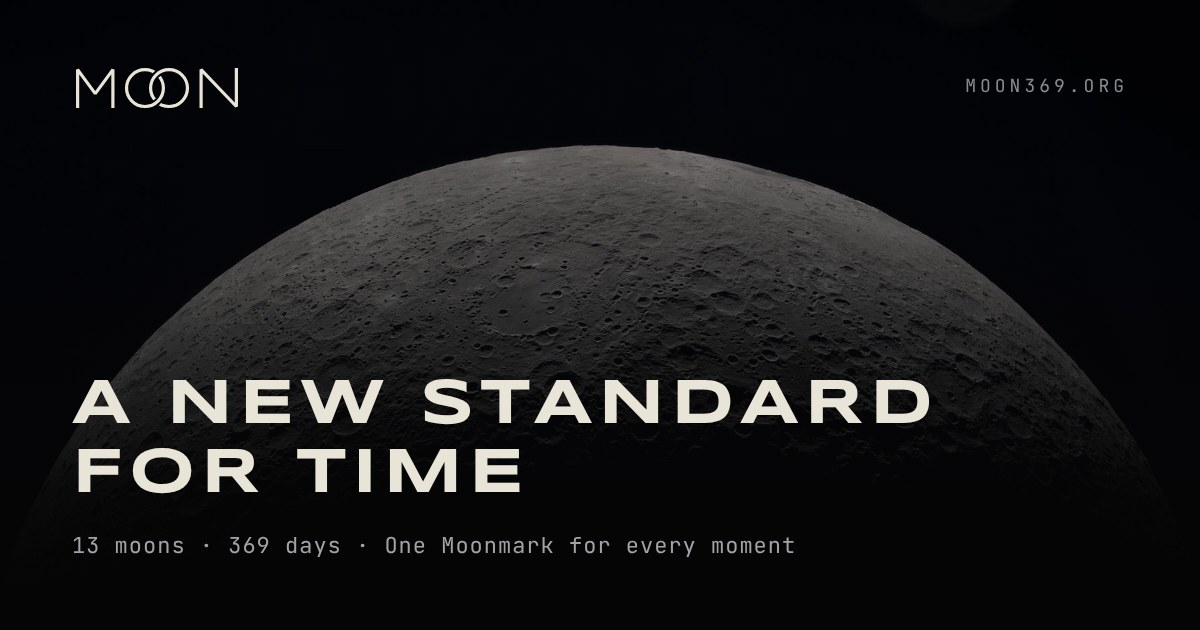
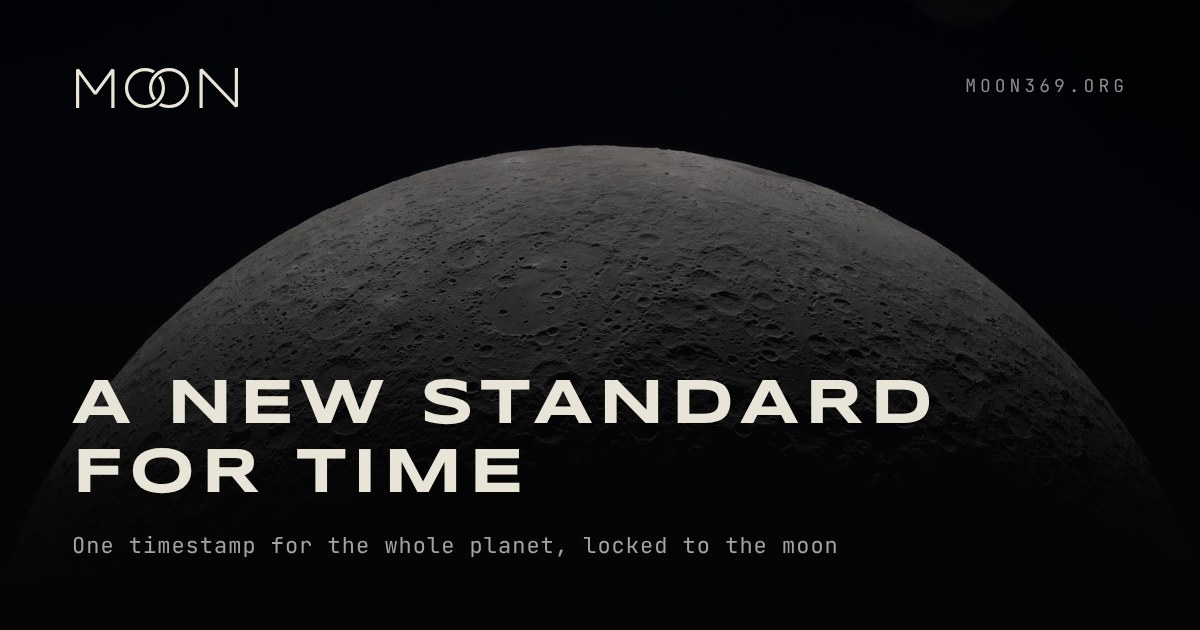
Clarify Moon as a timestamp: copy, moon-lock accuracy, share images

Changed region(s): [[0.0617, 0.8444, 0.7092, 0.8746]]

diff --git a/site/index.html b/site/index.html
@@ -11,16 +11,16 @@
 <meta property="og:url" content="https://moon369.org/">
 <meta property="og:title" content="Moon · The new standard for time">
 <meta property="og:description" content="Moon is an open standard for time: 13 moons, 369 lunes, and one Moonmark for every moment, the same everywhere, locked to the moon.">
-<meta property="og:image" content="https://moon369.org/assets/og/home.jpg">
+<meta property="og:image" content="https://moon369.org/assets/og/home.jpg?v=2">
 <meta property="og:image:width" content="1200">
 <meta property="og:image:height" content="630">
 <meta property="og:image:alt" content="Moon · The new standard for time, over a photograph of the moon">
 <meta name="twitter:card" content="summary_large_image">
 <meta name="twitter:title" content="Moon · The new standard for time">
 <meta name="twitter:description" content="Moon is an open standard for time: 13 moons, 369 lunes, and one Moonmark for every moment, the same everywhere, locked to the moon.">
-<meta name="twitter:image" content="https://moon369.org/assets/og/home.jpg">
+<meta name="twitter:image" content="https://moon369.org/assets/og/home.jpg?v=2">
 <link rel="apple-touch-icon" href="/assets/apple-touch-icon.png">
-<script type="application/ld+json">{"@context": "https://schema.org", "@graph": [{"@type": "Organization", "@id": "https://moon369.org/#org", "name": "Moon", "url": "https://moon369.org/", "logo": "https://moon369.org/assets/moon-app-icon-dark-1024.png"}, {"@type": "WebSite", "@id": "https://moon369.org/#site", "name": "Moon", "url": "https://moon369.org/", "publisher": {"@id": "https://moon369.org/#org"}}, {"@type": "FAQPage", "mainEntity": [{"@type": "Question", "name": "What does Moon actually set?", "acceptedAnswer": {"@type": "Answer", "text": "One timestamp for the whole planet. Moon is one count of time, locked to the real moon, read as the year, the 13 moons and the lune. The date is the same everywhere, and every moment on it is a Moonmark."}}, {"@type": "Question", "name": "What is a Moonmark?", "acceptedAnswer": {"@type": "Answer", "text": "One exact moment on the Moon count, the same for everyone on Earth, like 1928.05.03 09:12:04.205379905. Use it for launches, records, logs and proof of when something happened. Every Moonmark has its own link, so it fits in a QR code."}}, {"@type": "Question", "name": "What is a lune?", "acceptedAnswer": {"@type": "Answer", "text": "A lune is a Moon day: one 369th of a Moon year, or 86,400 Moon seconds, about 24h 58m on the old clock. It turns over at the same instant everywhere, so the date is the same for the whole planet. 369 lunes make 13 moons, locked to the real moon. A lune is a unit of the Moon count, not daylight, so it turns over at a different hour of the day in different places."}}, {"@type": "Question", "name": "What is a Moon second?", "acceptedAnswer": {"@type": "Answer", "text": "1 Moon second = 1.0403730490 SI seconds. It is derived, not chosen: 13 mean lunar cycles (13 × 29.530588853 days) divided into exactly 369 lunes of 86,400 Moon seconds. A Moon minute is 62.42 s, a Moon hour 1 h 2 min 25 s, and a lune 24 h 58 min 8 s in standard time."}}, {"@type": "Question", "name": "Why 369 lunes?", "acceptedAnswer": {"@type": "Answer", "text": "The moon has two natural months. The sidereal month, one orbit measured against the stars, is 27.321661 days. The synodic month, new moon to new moon, is 29.530589 days. Their harmonic mean, the correct way to average two rates, is 2ab ÷ (a + b) = 28.3832 days, and 13 × 28.3832 = 368.98 days. Moon makes that a whole 369, so each moon is 28.3846 lunes, within 2 minutes of the astronomical value. The Moon second is then sized so those 369 lunes span exactly 13 real lunations."}}, {"@type": "Question", "name": "Why is it the year 1928?", "acceptedAnswer": {"@type": "Answer", "text": "Moon and the old calendar both start counting at year 0, so they cover the same stretch of history. The difference is size. A Moon second is a little longer than an old second, so every lune and every Moon year is longer too. Bigger years means fewer of them fit in the same stretch. The time the old calendar counts as 2026 years, Moon counts as 1,928 bigger ones. That's why it's Year 1928."}}, {"@type": "Question", "name": "Is 369 connected to Nikola Tesla?", "acceptedAnswer": {"@type": "Answer", "text": "Tesla was famously drawn to the number three. Biographers describe him circling a block three times before entering a building and preferring hotel rooms with numbers divisible by three. The widely shared quote about the \"magnificence of 3, 6 and 9\" has no known source in his writings or interviews, so we do not attribute it to him. Moon's 369 comes from the moon's orbit, not numerology. The echo of Tesla is a fitting coincidence."}}, {"@type": "Question", "name": "Does Moon stay locked to the real moon?", "acceptedAnswer": {"@type": "Answer", "text": "Yes. Each moon is the mean synodic month, the average time from new moon to new moon, and the count starts on a mean new moon. Individual new moons arrive up to about 14 hours early or late because the lunar orbit is elliptical, but that offset swings back and forth and never accumulates."}}, {"@type": "Question", "name": "When did Moon time begin?", "acceptedAnswer": {"@type": "Answer", "text": "Year 0, Moon 1, Lune 1, 00:00:00 is the first mean new moon of 0 AD: 23 January 0000 at 02:44 UTC. It is counted back exactly 24,736 lunations from the astronomical reference new moon of 6 January 2000, 18:14 UTC. Today is Year {{y}}."}}, {"@type": "Question", "name": "Why does my phone show a different time?", "acceptedAnswer": {"@type": "Answer", "text": "Your phone shows the old clock, set by time zones and daylight saving. Moon doesn't use them. A lune is about 58 minutes longer than one turn of the Earth, so Moon doesn't follow sunrise or the hour on your wall. It gives one date and one Moonmark, the same for everyone."}}, {"@type": "Question", "name": "What happens to the seasons?", "acceptedAnswer": {"@type": "Answer", "text": "They drift. A Moon year is 369 lunes, about 19 days longer than the sun's year, so the seasons move slowly through the moons and come back to the same moon about every 20 years. Moon follows the moon, not the sun, so no Moon date is tied to a season. Equinoxes and solstices still arrive when they always do. They just land on different lunes each year."}}, {"@type": "Question", "name": "How do 28.38-lune moons work with whole lunes?", "acceptedAnswer": {"@type": "Answer", "text": "Each lune belongs to the moon it starts in. That gives eight moons of 28 lunes and five of 29 (moons 1, 3, 6, 8 and 11), totaling 369. The pattern is identical every year."}}, {"@type": "Question", "name": "Where did time zones go?", "acceptedAnswer": {"@type": "Answer", "text": "Nowhere you need them. To meet someone anywhere, share a Moonmark: one moment, the same for everyone."}}, {"@type": "Question", "name": "How accurate is it, and how do I convert?", "acceptedAnswer": {"@type": "Answer", "text": "Moon is defined from the SI second, which is set by cesium atomic clocks, and computed from Unix time so every system gets the same answer. Moon seconds = (Unix ms − epoch ms) ÷ 1040.3730490. The epoch is −62,165,308,562,979 ms."}}]}]}</script>
+<script type="application/ld+json">{"@context": "https://schema.org", "@graph": [{"@type": "Organization", "@id": "https://moon369.org/#org", "name": "Moon", "url": "https://moon369.org/", "logo": "https://moon369.org/assets/moon-app-icon-dark-1024.png"}, {"@type": "WebSite", "@id": "https://moon369.org/#site", "name": "Moon", "url": "https://moon369.org/", "publisher": {"@id": "https://moon369.org/#org"}}, {"@type": "FAQPage", "mainEntity": [{"@type": "Question", "name": "What does Moon actually set?", "acceptedAnswer": {"@type": "Answer", "text": "One timestamp for the whole planet. Moon is one count of time, locked to the real moon, read as the year, the 13 moons and the lune. The date is the same everywhere, and every moment on it is a Moonmark."}}, {"@type": "Question", "name": "What is a Moonmark?", "acceptedAnswer": {"@type": "Answer", "text": "One exact moment on the Moon count, the same for everyone on Earth, like 1928.05.03 09:12:04.205379905. Use it for launches, records, logs and proof of when something happened. Every Moonmark has its own link, so it fits in a QR code."}}, {"@type": "Question", "name": "What is a lune?", "acceptedAnswer": {"@type": "Answer", "text": "A lune is a Moon day: one 369th of a Moon year, or 86,400 Moon seconds, about 24h 58m on the old clock. It turns over at the same instant everywhere, so the date is the same for the whole planet. 369 lunes make 13 moons, locked to the real moon. A lune is a unit of the Moon count, not daylight, so it turns over at a different hour of the day in different places."}}, {"@type": "Question", "name": "What is a Moon second?", "acceptedAnswer": {"@type": "Answer", "text": "1 Moon second = 1.0403730490 SI seconds. It is derived, not chosen: 13 mean lunar cycles (13 × 29.530588853 days) divided into exactly 369 lunes of 86,400 Moon seconds. A Moon minute is 62.42 s, a Moon hour 1 h 2 min 25 s, and a lune 24 h 58 min 8 s in standard time."}}, {"@type": "Question", "name": "Why 369 lunes?", "acceptedAnswer": {"@type": "Answer", "text": "Short answer: the moon's two natural months average out to 28.38 days, and thirteen of them make 369. The detail: the moon has two natural months. The sidereal month, one orbit measured against the stars, is 27.321661 days. The synodic month, new moon to new moon, is 29.530589 days. Their harmonic mean, the correct way to average two rates, is 2ab ÷ (a + b) = 28.3832 days, and 13 × 28.3832 = 368.98 days. Moon makes that a whole 369, so each moon is 28.3846 lunes, within 2 minutes of the astronomical value. The Moon second is then sized so those 369 lunes span exactly 13 real lunations."}}, {"@type": "Question", "name": "Why is it the year 1928?", "acceptedAnswer": {"@type": "Answer", "text": "Moon and the old calendar both start counting at year 0, so they cover the same stretch of history. The difference is size. A Moon second is a little longer than an old second, so every lune and every Moon year is longer too. Bigger years means fewer of them fit in the same stretch. The time the old calendar counts as 2026 years, Moon counts as 1,928 bigger ones. That's why it's Year 1928."}}, {"@type": "Question", "name": "Is 369 connected to Nikola Tesla?", "acceptedAnswer": {"@type": "Answer", "text": "Tesla was famously drawn to the number three. Biographers describe him circling a block three times before entering a building and preferring hotel rooms with numbers divisible by three. The widely shared quote about the \"magnificence of 3, 6 and 9\" has no known source in his writings or interviews, so we do not attribute it to him. Moon's 369 comes from the moon's orbit, not numerology. The echo of Tesla is a fitting coincidence."}}, {"@type": "Question", "name": "Does Moon stay locked to the real moon?", "acceptedAnswer": {"@type": "Answer", "text": "Yes, on average. Each moon is sized to the average lunar cycle, new moon to new moon, so the count never drifts away from the moon, even over thousands of years. Any single moon is a little off, though. Real lunar cycles run hours longer or shorter than average, and a moon has to start on a whole lune, so a moon begins between about 10 hours before and 41 hours after the real new moon, typically about 15 hours after. That offset swings back and forth and never accumulates."}}, {"@type": "Question", "name": "When did Moon time begin?", "acceptedAnswer": {"@type": "Answer", "text": "Year 0, Moon 1, Lune 1, 00:00:00 is the first mean new moon of 0 AD: 23 January 0000 at 02:44 UTC. It is counted back exactly 24,736 lunations from the astronomical reference new moon of 6 January 2000, 18:14 UTC. Today is Year {{y}}."}}, {"@type": "Question", "name": "Why does my phone show a different time?", "acceptedAnswer": {"@type": "Answer", "text": "Your phone shows the old clock, set by time zones and daylight saving. Moon doesn't use them. A lune is about 58 minutes longer than one turn of the Earth, so Moon doesn't follow sunrise or the hour on your wall. It gives one date and one Moonmark, the same for everyone."}}, {"@type": "Question", "name": "What happens to the seasons?", "acceptedAnswer": {"@type": "Answer", "text": "They drift. A Moon year is 369 lunes, about 19 days longer than the sun's year, so the seasons move slowly through the moons and come back to the same moon about every 20 years. Moon follows the moon, not the sun, so no Moon date is tied to a season. Equinoxes and solstices still arrive when they always do. They just land on different lunes each year."}}, {"@type": "Question", "name": "How do 28.38-lune moons work with whole lunes?", "acceptedAnswer": {"@type": "Answer", "text": "Each lune belongs to the moon it starts in. That gives eight moons of 28 lunes and five of 29 (moons 1, 3, 6, 8 and 11), totaling 369. The pattern is identical every year."}}, {"@type": "Question", "name": "Where did time zones go?", "acceptedAnswer": {"@type": "Answer", "text": "Nowhere you need them. To meet someone anywhere, share a Moonmark: one moment, the same for everyone."}}, {"@type": "Question", "name": "How accurate is it, and how do I convert?", "acceptedAnswer": {"@type": "Answer", "text": "Moon is defined from the SI second, which is set by cesium atomic clocks, and computed from Unix time so every system gets the same answer. Moon seconds = (Unix ms − epoch ms) ÷ 1040.3730490. The epoch is −62,165,308,562,979 ms."}}]}]}</script>
 <meta name="theme-color" content="#0B0B0D">
 <link rel="icon" href="assets/favicon.svg" type="image/svg+xml">
 <link rel="icon" href="assets/favicon-64.png" type="image/png">
@@ -167,7 +167,7 @@ footer > div > div:first-child svg{width:64px!important}
 
 <section style="border-top: 1px solid #1C1D20; border-bottom: 1px solid #1C1D20; background: #08080A">
 <div style="max-width: 1280px; margin: 0 auto; padding: 120px 32px">
-<p style="margin: 0; max-width: 1040px; font-family: 'Syncopate', sans-serif; font-size: clamp(22px, 3vw, 40px); line-height: 1.45; letter-spacing: 0.04em">Our calendar was decreed in 1582. Our time zones were drawn for railroads. <span style="color: #6E6F73">The world now runs on networks that never sleep. It deserves a clock built for all of us at once.</span></p>
+<p style="margin: 0; max-width: 1040px; font-family: 'Syncopate', sans-serif; font-size: clamp(22px, 3vw, 40px); line-height: 1.45; letter-spacing: 0.04em">Our calendar was decreed in 1582. Our time zones were drawn for railroads. <span style="color: #6E6F73">The world now runs on networks that never sleep. It deserves one timestamp the whole planet&nbsp;shares.</span></p>
 </div>
 </section>
 
@@ -181,7 +181,7 @@ footer > div > div:first-child svg{width:64px!important}
 <div style="font-family: 'JetBrains Mono', monospace; font-size: 12px; color: #8A8B8F">01</div>
 <div style="font-family: 'Syncopate', sans-serif; font-weight: 700; font-size: 56px; letter-spacing: 0.04em">13</div>
 <div style="font-family: 'Syncopate', sans-serif; font-size: 13px; letter-spacing: 0.24em">MOONS</div>
-<p style="margin: 0; font-size: 15px; line-height: 1.6; color: #A2A3A7">Thirteen equal moons replace twelve uneven months. Every year has the same&nbsp;shape.</p>
+<p style="margin: 0; font-size: 15px; line-height: 1.6; color: #A2A3A7">Thirteen moons replace twelve uneven months. Every year has the same&nbsp;shape.</p>
 </div>
 <div style="background: #0B0B0D; padding: 40px 32px 48px; display: flex; flex-direction: column; gap: 20px; min-height: 280px">
 <div style="font-family: 'JetBrains Mono', monospace; font-size: 12px; color: #8A8B8F">02</div>
@@ -238,7 +238,7 @@ footer > div > div:first-child svg{width:64px!important}
 <div style="max-width: 1280px; margin: 0 auto; padding: 140px 32px; display: flex; flex-direction: column; gap: 48px">
 <div style="display: flex; flex-wrap: wrap; justify-content: space-between; align-items: flex-end; gap: 24px">
 <h2 style="margin: 0; font-family: 'Syncopate', sans-serif; font-weight: 700; font-size: clamp(26px, 3.4vw, 44px); letter-spacing: 0.08em; line-height: 1.2">24 TIME ZONES.<br>ONE MOON.</h2>
-<p style="margin: 0; max-width: 460px; font-size: 17px; line-height: 1.65; color: #B9B6AE">The world runs on {{zoneCount}} different local clocks right now. Moon replaces all of them with one date and one Moonmark. Every beacon below is&nbsp;live.</p>
+<p style="margin: 0; max-width: 460px; font-size: 17px; line-height: 1.65; color: #B9B6AE">The world runs on {{zoneCount}} different local clocks right now. Under every one of them, Moon gives the same date and the same Moonmark. Every beacon below is&nbsp;live.</p>
 </div>
 <div class="mw-hint" style="display: none; font-family: 'JetBrains Mono', monospace; font-size: 11px; letter-spacing: 0.14em; color: #8A8B8F">SWIPE THE MAP TO SEE EVERY ZONE →</div>
 <div class="mw-scroll" style="overflow: hidden; margin: 0 -20px; padding: 0 20px">
@@ -503,8 +503,8 @@ footer > div > div:first-child svg{width:64px!important}
 
 <section id="year" style="max-width: 1280px; margin: 0 auto; padding: 140px 32px; display: flex; flex-wrap: wrap; align-items: center; gap: 80px">
 <div style="flex: 1 1 380px; display: flex; flex-direction: column; gap: 28px">
-<h2 style="margin: 0; font-family: 'Syncopate', sans-serif; font-weight: 700; font-size: clamp(26px, 3.4vw, 44px); letter-spacing: 0.08em; line-height: 1.2">THIRTEEN<br>EQUAL MOONS</h2>
-<p style="margin: 0; font-size: 17px; line-height: 1.7; color: #B9B6AE">The Gregorian year is twelve months of 28, 29, 30 and 31 days. Moon makes every moon one real lunar cycle, new moon to new moon, and thirteen of them make one year. Lunes stay whole: eight moons run 28 lunes and five run&nbsp;29.</p>
+<h2 style="margin: 0; font-family: 'Syncopate', sans-serif; font-weight: 700; font-size: clamp(26px, 3.4vw, 44px); letter-spacing: 0.08em; line-height: 1.2">THIRTEEN<br>MOONS</h2>
+<p style="margin: 0; font-size: 17px; line-height: 1.7; color: #B9B6AE">The Gregorian year is twelve months of 28, 29, 30 and 31 days. Moon sizes every moon to the average lunar cycle, new moon to new moon, and thirteen of them make one year. Lunes stay whole: eight moons run 28 lunes and five run&nbsp;29.</p>
 <div class="hm-stats" style="display: flex; gap: 48px; flex-wrap: wrap">
 <div style="display: flex; flex-direction: column; gap: 8px"><div style="font-family: 'JetBrains Mono', monospace; font-size: 30px">13</div><div style="font-family: 'Syncopate', sans-serif; font-size: 10px; letter-spacing: 0.24em; color: #8A8B8F">MOONS A YEAR</div></div>
 <div style="display: flex; flex-direction: column; gap: 8px"><div style="font-family: 'JetBrains Mono', monospace; font-size: 30px">28.38</div><div style="font-family: 'Syncopate', sans-serif; font-size: 10px; letter-spacing: 0.24em; color: #8A8B8F">LUNES PER MOON</div></div>
@@ -564,10 +564,10 @@ footer > div > div:first-child svg{width:64px!important}
 </thead>
 <tbody>
 <tr><th scope="row" style="text-align: left; padding: 22px 28px; font-weight: 500; border-bottom: 1px solid #1C1D20">The second</th><td style="padding: 22px 28px; color: #8A8B8F; border-bottom: 1px solid #1C1D20">1 SI second</td><td style="padding: 22px 28px; background: #16171A; border-bottom: 1px solid #1C1D20">1.0403730 SI seconds</td></tr>
-<tr><th scope="row" style="text-align: left; padding: 22px 28px; font-weight: 500; border-bottom: 1px solid #1C1D20">Divisions</th><td style="padding: 22px 28px; color: #8A8B8F; border-bottom: 1px solid #1C1D20">12 months, 28 to 31 days, unrelated to the moon</td><td style="padding: 22px 28px; background: #16171A; border-bottom: 1px solid #1C1D20">13 moons, each one real lunar cycle</td></tr>
+<tr><th scope="row" style="text-align: left; padding: 22px 28px; font-weight: 500; border-bottom: 1px solid #1C1D20">Divisions</th><td style="padding: 22px 28px; color: #8A8B8F; border-bottom: 1px solid #1C1D20">12 months, 28 to 31 days, unrelated to the moon</td><td style="padding: 22px 28px; background: #16171A; border-bottom: 1px solid #1C1D20">13 moons, each one lunar cycle on average</td></tr>
 <tr><th scope="row" style="text-align: left; padding: 22px 28px; font-weight: 500; border-bottom: 1px solid #1C1D20">Year length</th><td style="padding: 22px 28px; color: #8A8B8F; border-bottom: 1px solid #1C1D20">365 or 366, leap rules</td><td style="padding: 22px 28px; background: #16171A; border-bottom: 1px solid #1C1D20">369, always</td></tr>
-<tr><th scope="row" style="text-align: left; padding: 22px 28px; font-weight: 500; border-bottom: 1px solid #1C1D20">Clock</th><td style="padding: 22px 28px; color: #8A8B8F; border-bottom: 1px solid #1C1D20">Dozens of local zones</td><td style="padding: 22px 28px; background: #16171A; border-bottom: 1px solid #1C1D20">One global time</td></tr>
-<tr><th scope="row" style="text-align: left; padding: 22px 28px; font-weight: 500; border-bottom: 1px solid #1C1D20">Daylight saving</th><td style="padding: 22px 28px; color: #8A8B8F; border-bottom: 1px solid #1C1D20">Shifts twice a year, region by region</td><td style="padding: 22px 28px; background: #16171A; border-bottom: 1px solid #1C1D20">Never</td></tr>
+<tr><th scope="row" style="text-align: left; padding: 22px 28px; font-weight: 500; border-bottom: 1px solid #1C1D20">Timestamp</th><td style="padding: 22px 28px; color: #8A8B8F; border-bottom: 1px solid #1C1D20">Local time plus a zone offset</td><td style="padding: 22px 28px; background: #16171A; border-bottom: 1px solid #1C1D20">One Moonmark, the same everywhere</td></tr>
+<tr><th scope="row" style="text-align: left; padding: 22px 28px; font-weight: 500; border-bottom: 1px solid #1C1D20">Daylight saving</th><td style="padding: 22px 28px; color: #8A8B8F; border-bottom: 1px solid #1C1D20">Shifts twice a year, region by region</td><td style="padding: 22px 28px; background: #16171A; border-bottom: 1px solid #1C1D20">None. The count never shifts</td></tr>
 <tr><th scope="row" style="text-align: left; padding: 22px 28px; font-weight: 500; border-bottom: 1px solid #1C1D20">Year count</th><td style="padding: 22px 28px; color: #8A8B8F; border-bottom: 1px solid #1C1D20">Starts at 1, no year zero</td><td style="padding: 22px 28px; background: #16171A; border-bottom: 1px solid #1C1D20">Starts at year 0</td></tr>
 <tr><th scope="row" style="text-align: left; padding: 22px 28px; font-weight: 500">Governance</th><td style="padding: 22px 28px; color: #8A8B8F">Papal decree, 1582</td><td style="padding: 22px 28px; background: #16171A">Open standard, open API</td></tr>
 </tbody>
@@ -647,7 +647,7 @@ footer > div > div:first-child svg{width:64px!important}
 </details>
 <details style="border-bottom: 1px solid #24262A">
 <summary style="list-style: none; cursor: pointer; padding: 28px 4px; min-height: 44px; display: flex; justify-content: space-between; align-items: center; gap: 24px; font-size: 19px; font-weight: 500">Why 369 lunes?<span aria-hidden="true" style="font-family: 'JetBrains Mono', monospace; color: #8A8B8F">+</span></summary>
-<p style="margin: 0; padding: 0 4px 32px; max-width: 820px; font-size: 16px; line-height: 1.75; color: #A2A3A7">The moon has two natural months. The sidereal month, one orbit measured against the stars, is 27.321661 days. The synodic month, new moon to new moon, is 29.530589 days. Their harmonic mean, the correct way to average two rates, is 2ab ÷ (a + b) = 28.3832 days, and 13 × 28.3832 = 368.98 days. Moon makes that a whole 369, so each moon is 28.3846 lunes, within 2 minutes of the astronomical value. The Moon second is then sized so those 369 lunes span exactly 13 real&nbsp;lunations.</p>
+<p style="margin: 0; padding: 0 4px 32px; max-width: 820px; font-size: 16px; line-height: 1.75; color: #A2A3A7">Short answer: the moon's two natural months average out to 28.38 days, and thirteen of them make 369. The detail: the moon has two natural months. The sidereal month, one orbit measured against the stars, is 27.321661 days. The synodic month, new moon to new moon, is 29.530589 days. Their harmonic mean, the correct way to average two rates, is 2ab ÷ (a + b) = 28.3832 days, and 13 × 28.3832 = 368.98 days. Moon makes that a whole 369, so each moon is 28.3846 lunes, within 2 minutes of the astronomical value. The Moon second is then sized so those 369 lunes span exactly 13 real&nbsp;lunations.</p>
 </details>
 <details style="border-bottom: 1px solid #24262A">
 <summary style="list-style: none; cursor: pointer; padding: 28px 4px; min-height: 44px; display: flex; justify-content: space-between; align-items: center; gap: 24px; font-size: 19px; font-weight: 500">Why is it the year 1928?<span aria-hidden="true" style="font-family: 'JetBrains Mono', monospace; color: #8A8B8F">+</span></summary>
@@ -659,7 +659,7 @@ footer > div > div:first-child svg{width:64px!important}
 </details>
 <details style="border-bottom: 1px solid #24262A">
 <summary style="list-style: none; cursor: pointer; padding: 28px 4px; min-height: 44px; display: flex; justify-content: space-between; align-items: center; gap: 24px; font-size: 19px; font-weight: 500">Does Moon stay locked to the real moon?<span aria-hidden="true" style="font-family: 'JetBrains Mono', monospace; color: #8A8B8F">+</span></summary>
-<p style="margin: 0; padding: 0 4px 32px; max-width: 820px; font-size: 16px; line-height: 1.75; color: #A2A3A7">Yes. Each moon is the mean synodic month, the average time from new moon to new moon, and the count starts on a mean new moon. Individual new moons arrive up to about 14 hours early or late because the lunar orbit is elliptical, but that offset swings back and forth and never&nbsp;accumulates.</p>
+<p style="margin: 0; padding: 0 4px 32px; max-width: 820px; font-size: 16px; line-height: 1.75; color: #A2A3A7">Yes, on average. Each moon is sized to the average lunar cycle, new moon to new moon, so the count never drifts away from the moon, even over thousands of years. Any single moon is a little off, though. Real lunar cycles run hours longer or shorter than average, and a moon has to start on a whole lune, so a moon begins between about 10 hours before and 41 hours after the real new moon, typically about 15 hours after. That offset swings back and forth and never&nbsp;accumulates.</p>
 </details>
 <details style="border-bottom: 1px solid #24262A">
 <summary style="list-style: none; cursor: pointer; padding: 28px 4px; min-height: 44px; display: flex; justify-content: space-between; align-items: center; gap: 24px; font-size: 19px; font-weight: 500">When did Moon time begin?<span aria-hidden="true" style="font-family: 'JetBrains Mono', monospace; color: #8A8B8F">+</span></summary>
@@ -689,7 +689,7 @@ footer > div > div:first-child svg{width:64px!important}
 </section>
 
 <section id="access" style="max-width: 1280px; margin: 0 auto; padding: 160px 32px; display: flex; flex-direction: column; align-items: center; text-align: center; gap: 40px">
-<h2 style="margin: 0; font-family: 'Syncopate', sans-serif; font-weight: 700; font-size: clamp(28px, 4.6vw, 64px); letter-spacing: 0.08em; line-height: 1.15">SET YOUR CLOCKS<br>TO MOON</h2>
+<h2 style="margin: 0; font-family: 'Syncopate', sans-serif; font-weight: 700; font-size: clamp(28px, 4.6vw, 64px); letter-spacing: 0.08em; line-height: 1.15">FOLLOW<br>MOON</h2>
 <p style="margin: 0; max-width: 520px; font-size: 18px; line-height: 1.6; color: #B9B6AE">Get updates as the standard, the code and the API&nbsp;grow.</p>
 <form style="display: flex; flex-wrap: wrap; justify-content: center; gap: 12px; width: 100%; max-width: 560px">
 <label for="moon-email" style="position: absolute; width: 1px; height: 1px; overflow: hidden; clip: rect(0 0 0 0)">Email address</label>

diff --git a/site/press.html b/site/press.html
@@ -11,14 +11,14 @@
 <meta property="og:url" content="https://moon369.org/press">
 <meta property="og:title" content="Moon Press Kit">
 <meta property="og:description" content="Logos, badges, colors and the story of Moon, the new standard for time.">
-<meta property="og:image" content="https://moon369.org/assets/og/press.jpg">
+<meta property="og:image" content="https://moon369.org/assets/og/press.jpg?v=2">
 <meta property="og:image:width" content="1200">
 <meta property="og:image:height" content="630">
 <meta property="og:image:alt" content="Moon Press Kit, over a photograph of the moon">
 <meta name="twitter:card" content="summary_large_image">
 <meta name="twitter:title" content="Moon Press Kit">
 <meta name="twitter:description" content="Logos, badges, colors and the story of Moon, the new standard for time.">
-<meta name="twitter:image" content="https://moon369.org/assets/og/press.jpg">
+<meta name="twitter:image" content="https://moon369.org/assets/og/press.jpg?v=2">
 <link rel="apple-touch-icon" href="/assets/apple-touch-icon.png">
 <meta name="theme-color" content="#0B0B0D">
 <link rel="icon" href="assets/favicon.svg" type="image/svg+xml">
@@ -122,12 +122,12 @@ footer > div > div:first-child svg{width:64px!important}
 <h2 style="margin: 0; font-family: 'Syncopate', sans-serif; font-weight: 700; font-size: clamp(22px, 2.6vw, 32px); letter-spacing: 0.08em">ABOUT MOON</h2>
 <p style="margin: 0; max-width: 720px; font-size: 16px; line-height: 1.7; color: #A2A3A7">Use this description in articles and&nbsp;listings.</p>
 </div>
-<blockquote style="margin: 0; padding: 0 0 0 24px; border-left: 2px solid #E9E4D8; font-size: 19px; line-height: 1.7">Moon is a new, open standard for time. It counts the year in 13 moons, each one a real lunar cycle, for exactly 369 lunes, and runs one global clock with no time zones and no daylight saving. The standard, its reference code and its API are free for anyone to use.</blockquote>
-<div style="font-size: 14px; color: #8A8B8F">Press contact: [PRESS CONTACT EMAIL]</div>
+<blockquote style="margin: 0; padding: 0 0 0 24px; border-left: 2px solid #E9E4D8; font-size: 19px; line-height: 1.7">Moon is a new, open standard for time. It counts the year in 13 moons, each one lunar cycle long on average, for exactly 369 lunes, and gives every moment one Moonmark, the same everywhere, with no time zones or daylight saving. The standard, its reference code and its API are free for anyone to use.</blockquote>
+<div style="font-size: 14px; color: #8A8B8F">Press contact: <a href="mailto:moon369org@proton.me" style="color: #E9E4D8">moon369org@proton.me</a></div>
 </div>
 <div style="flex: 1 1 360px; display: flex; flex-direction: column">
 <div style="font-family: 'JetBrains Mono', monospace; font-size: 11px; letter-spacing: 0.24em; color: #8A8B8F; padding-bottom: 12px">FACT SHEET</div>
-<div style="display: flex; justify-content: space-between; gap: 16px; padding: 14px 0; border-top: 1px solid #1C1D20"><span style="color: #8A8B8F; font-size: 14px">Year</span><span style="font-family: 'JetBrains Mono', monospace; font-size: 13px; text-align: right">13 moons, 369 lunes</span></div><div style="display: flex; justify-content: space-between; gap: 16px; padding: 14px 0; border-top: 1px solid #1C1D20"><span style="color: #8A8B8F; font-size: 14px">Moon</span><span style="font-family: 'JetBrains Mono', monospace; font-size: 13px; text-align: right">28.3846 lunes, one lunar cycle on average</span></div><div style="display: flex; justify-content: space-between; gap: 16px; padding: 14px 0; border-top: 1px solid #1C1D20"><span style="color: #8A8B8F; font-size: 14px">Moon second</span><span style="font-family: 'JetBrains Mono', monospace; font-size: 13px; text-align: right">1.0403730 SI seconds</span></div><div style="display: flex; justify-content: space-between; gap: 16px; padding: 14px 0; border-top: 1px solid #1C1D20"><span style="color: #8A8B8F; font-size: 14px">Clock</span><span style="font-family: 'JetBrains Mono', monospace; font-size: 13px; text-align: right">One global time. No time zones, no daylight saving</span></div><div style="display: flex; justify-content: space-between; gap: 16px; padding: 14px 0; border-top: 1px solid #1C1D20"><span style="color: #8A8B8F; font-size: 14px">Epoch</span><span style="font-family: 'JetBrains Mono', monospace; font-size: 13px; text-align: right">First new moon of 0 AD</span></div><div style="display: flex; justify-content: space-between; gap: 16px; padding: 14px 0; border-top: 1px solid #1C1D20"><span style="color: #8A8B8F; font-size: 14px">License</span><span style="font-family: 'JetBrains Mono', monospace; font-size: 13px; text-align: right">Open standard, MIT-licensed code</span></div>
+<div style="display: flex; justify-content: space-between; gap: 16px; padding: 14px 0; border-top: 1px solid #1C1D20"><span style="color: #8A8B8F; font-size: 14px">Year</span><span style="font-family: 'JetBrains Mono', monospace; font-size: 13px; text-align: right">13 moons, 369 lunes</span></div><div style="display: flex; justify-content: space-between; gap: 16px; padding: 14px 0; border-top: 1px solid #1C1D20"><span style="color: #8A8B8F; font-size: 14px">Moon</span><span style="font-family: 'JetBrains Mono', monospace; font-size: 13px; text-align: right">28.3846 lunes, one lunar cycle on average</span></div><div style="display: flex; justify-content: space-between; gap: 16px; padding: 14px 0; border-top: 1px solid #1C1D20"><span style="color: #8A8B8F; font-size: 14px">Moon second</span><span style="font-family: 'JetBrains Mono', monospace; font-size: 13px; text-align: right">1.0403730 SI seconds</span></div><div style="display: flex; justify-content: space-between; gap: 16px; padding: 14px 0; border-top: 1px solid #1C1D20"><span style="color: #8A8B8F; font-size: 14px">Timestamp</span><span style="font-family: 'JetBrains Mono', monospace; font-size: 13px; text-align: right">One Moonmark, the same everywhere</span></div><div style="display: flex; justify-content: space-between; gap: 16px; padding: 14px 0; border-top: 1px solid #1C1D20"><span style="color: #8A8B8F; font-size: 14px">Epoch</span><span style="font-family: 'JetBrains Mono', monospace; font-size: 13px; text-align: right">First new moon of 0 AD</span></div><div style="display: flex; justify-content: space-between; gap: 16px; padding: 14px 0; border-top: 1px solid #1C1D20"><span style="color: #8A8B8F; font-size: 14px">License</span><span style="font-family: 'JetBrains Mono', monospace; font-size: 13px; text-align: right">Open standard, MIT-licensed code</span></div>
 </div>
 </section>
 
@@ -306,7 +306,7 @@ footer > div > div:first-child svg{width:64px!important}
 <p style="margin: 0; font-size: 14px; line-height: 1.6; color: #A2A3A7">Headlines, labels and navigation. Uppercase only, wide&nbsp;tracking.</p>
 </div><div style="border: 1px solid #24262A; padding: 28px; display: flex; flex-direction: column; gap: 14px; min-width: 0">
 <div style="font-family: 'JetBrains Mono', monospace; font-size: 11px; letter-spacing: 0.24em; color: #8A8B8F">TEXT · GOOGLE FONTS</div>
-<div style="font-family: 'Inter', sans-serif; font-weight: 500; font-size: 26px; line-height: 1.25; overflow-wrap: anywhere">Thirteen moons. One clock.</div>
+<div style="font-family: 'Inter', sans-serif; font-weight: 500; font-size: 26px; line-height: 1.25; overflow-wrap: anywhere">Thirteen moons. One timestamp.</div>
 <div style="font-size: 15px; font-weight: 500">Inter</div>
 <p style="margin: 0; font-size: 14px; line-height: 1.6; color: #A2A3A7">Body copy and reading. Sentence case, 400 and 500&nbsp;weights.</p>
 </div><div style="border: 1px solid #24262A; padding: 28px; display: flex; flex-direction: column; gap: 14px; min-width: 0">

diff --git a/site/calendar.html b/site/calendar.html
@@ -11,14 +11,14 @@
 <meta property="og:url" content="https://moon369.org/calendar">
 <meta property="og:title" content="The Moon Calendar">
 <meta property="og:description" content="13 moons locked to the real moon, 369 lunes a year. See today, every moon and every phase.">
-<meta property="og:image" content="https://moon369.org/assets/og/calendar.jpg">
+<meta property="og:image" content="https://moon369.org/assets/og/calendar.jpg?v=2">
 <meta property="og:image:width" content="1200">
 <meta property="og:image:height" content="630">
 <meta property="og:image:alt" content="The Moon Calendar, over a photograph of the moon">
 <meta name="twitter:card" content="summary_large_image">
 <meta name="twitter:title" content="The Moon Calendar">
 <meta name="twitter:description" content="13 moons locked to the real moon, 369 lunes a year. See today, every moon and every phase.">
-<meta name="twitter:image" content="https://moon369.org/assets/og/calendar.jpg">
+<meta name="twitter:image" content="https://moon369.org/assets/og/calendar.jpg?v=2">
 <link rel="apple-touch-icon" href="/assets/apple-touch-icon.png">
 <script type="application/ld+json">{"@context": "https://schema.org", "@type": "WebPage", "name": "The Moon Calendar", "url": "https://moon369.org/calendar", "isPartOf": {"@id": "https://moon369.org/#site"}}</script>
 <meta name="theme-color" content="#0B0B0D">
@@ -166,7 +166,7 @@ footer > div > div:first-child svg{width:64px!important}
 <span class="s1" style="display: inline-flex; align-items: center; gap: 8px"><span style="width: 14px; height: 4px; background: var(--season)"></span>Summer</span>
 <span class="s2" style="display: inline-flex; align-items: center; gap: 8px"><span style="width: 14px; height: 4px; background: var(--season)"></span>Autumn</span>
 <span class="s3" style="display: inline-flex; align-items: center; gap: 8px"><span style="width: 14px; height: 4px; background: var(--season)"></span>Winter</span>
-<span>◆ Equinox or solstice falls on this lune · Northern Hemisphere seasons</span>
+<span>◆ Equinox or solstice falls on this lune · Northern Hemisphere seasons · Seasons drift about 18 lunes earlier each Moon&nbsp;year</span>
 </div>
 <div style="display: grid; grid-template-columns: repeat(auto-fill, minmax(320px, 1fr)); gap: 16px">
 <sc-for list="{{moons}}" as="mo" hint-placeholder-count="13">
@@ -236,7 +236,7 @@ footer > div > div:first-child svg{width:64px!important}
 </tbody>
 </table>
 </div>
-<p style="margin: 0; max-width: 820px; font-size: 13px; line-height: 1.7; color: #8A8B8F">One clock for the whole planet: no time zones, no daylight saving. Year 0 began at the first new moon of 0 AD, 23 January 0000, 02:44 UTC, and the count runs unbroken from there. Each moon has 28 or 29 whole lunes (five moons get 29), and a lune belongs to the moon it starts in. Moon boundaries track the average lunation, so a real new moon can land up to about half a lune either side, and that offset never accumulates. Equinoxes and solstices follow Meeus, Astronomical Algorithms ch. 27, accurate to about a&nbsp;minute.</p>
+<p style="margin: 0; max-width: 820px; font-size: 13px; line-height: 1.7; color: #8A8B8F">One timestamp for the whole planet, with no time zones or daylight saving. Year 0 began at the first new moon of 0 AD, 23 January 0000, 02:44 UTC, and the count runs unbroken from there. Each moon has 28 or 29 whole lunes (five moons get 29), and a lune belongs to the moon it starts in. Moons track the average lunar cycle, so a moon starts between about 10 hours before and 41 hours after the real new moon, typically about 15 hours after, and that offset never accumulates. Equinoxes and solstices follow Meeus, Astronomical Algorithms ch. 27, accurate to about a&nbsp;minute.</p>
 </section>
 
 </div>

diff --git a/site/api.html b/site/api.html
@@ -11,14 +11,14 @@
 <meta property="og:url" content="https://moon369.org/api">
 <meta property="og:title" content="Moon API">
 <meta property="og:description" content="Open source, no key. One timestamp for the whole planet, locked to the moon: Moon dates and nanosecond Moonmarks.">
-<meta property="og:image" content="https://moon369.org/assets/og/api.jpg">
+<meta property="og:image" content="https://moon369.org/assets/og/api.jpg?v=2">
 <meta property="og:image:width" content="1200">
 <meta property="og:image:height" content="630">
 <meta property="og:image:alt" content="Moon API, over a photograph of the moon">
 <meta name="twitter:card" content="summary_large_image">
 <meta name="twitter:title" content="Moon API">
 <meta name="twitter:description" content="Open source, no key. One timestamp for the whole planet, locked to the moon: Moon dates and nanosecond Moonmarks.">
-<meta name="twitter:image" content="https://moon369.org/assets/og/api.jpg">
+<meta name="twitter:image" content="https://moon369.org/assets/og/api.jpg?v=2">
 <link rel="apple-touch-icon" href="/assets/apple-touch-icon.png">
 <script type="application/ld+json">{"@context": "https://schema.org", "@type": "WebAPI", "name": "Moon API", "url": "https://moon369.org/api", "documentation": "https://moon369.org/api", "provider": {"@type": "Organization", "name": "Moon", "url": "https://moon369.org/"}, "termsOfService": "https://moon369.org/api#terms", "description": "Open source, no key. One timestamp for the whole planet, locked to the moon: Moon dates and nanosecond Moonmarks."}</script>
 <meta name="theme-color" content="#0B0B0D">

diff --git a/site/m.html b/site/m.html
@@ -11,14 +11,14 @@
 <meta property="og:url" content="https://moon369.org/m">
 <meta property="og:title" content="Moonmark · Moon">
 <meta property="og:description" content="A Moonmark is one exact moment, the same everywhere on Earth. Open it anywhere.">
-<meta property="og:image" content="https://moon369.org/assets/og/moonmark.jpg">
+<meta property="og:image" content="https://moon369.org/assets/og/moonmark.jpg?v=2">
 <meta property="og:image:width" content="1200">
 <meta property="og:image:height" content="630">
 <meta property="og:image:alt" content="Moonmark · Moon, over a photograph of the moon">
 <meta name="twitter:card" content="summary_large_image">
 <meta name="twitter:title" content="Moonmark · Moon">
 <meta name="twitter:description" content="A Moonmark is one exact moment, the same everywhere on Earth. Open it anywhere.">
-<meta name="twitter:image" content="https://moon369.org/assets/og/moonmark.jpg">
+<meta name="twitter:image" content="https://moon369.org/assets/og/moonmark.jpg?v=2">
 <link rel="apple-touch-icon" href="/assets/apple-touch-icon.png">
 <meta name="theme-color" content="#0B0B0D">
 <base href="/">
